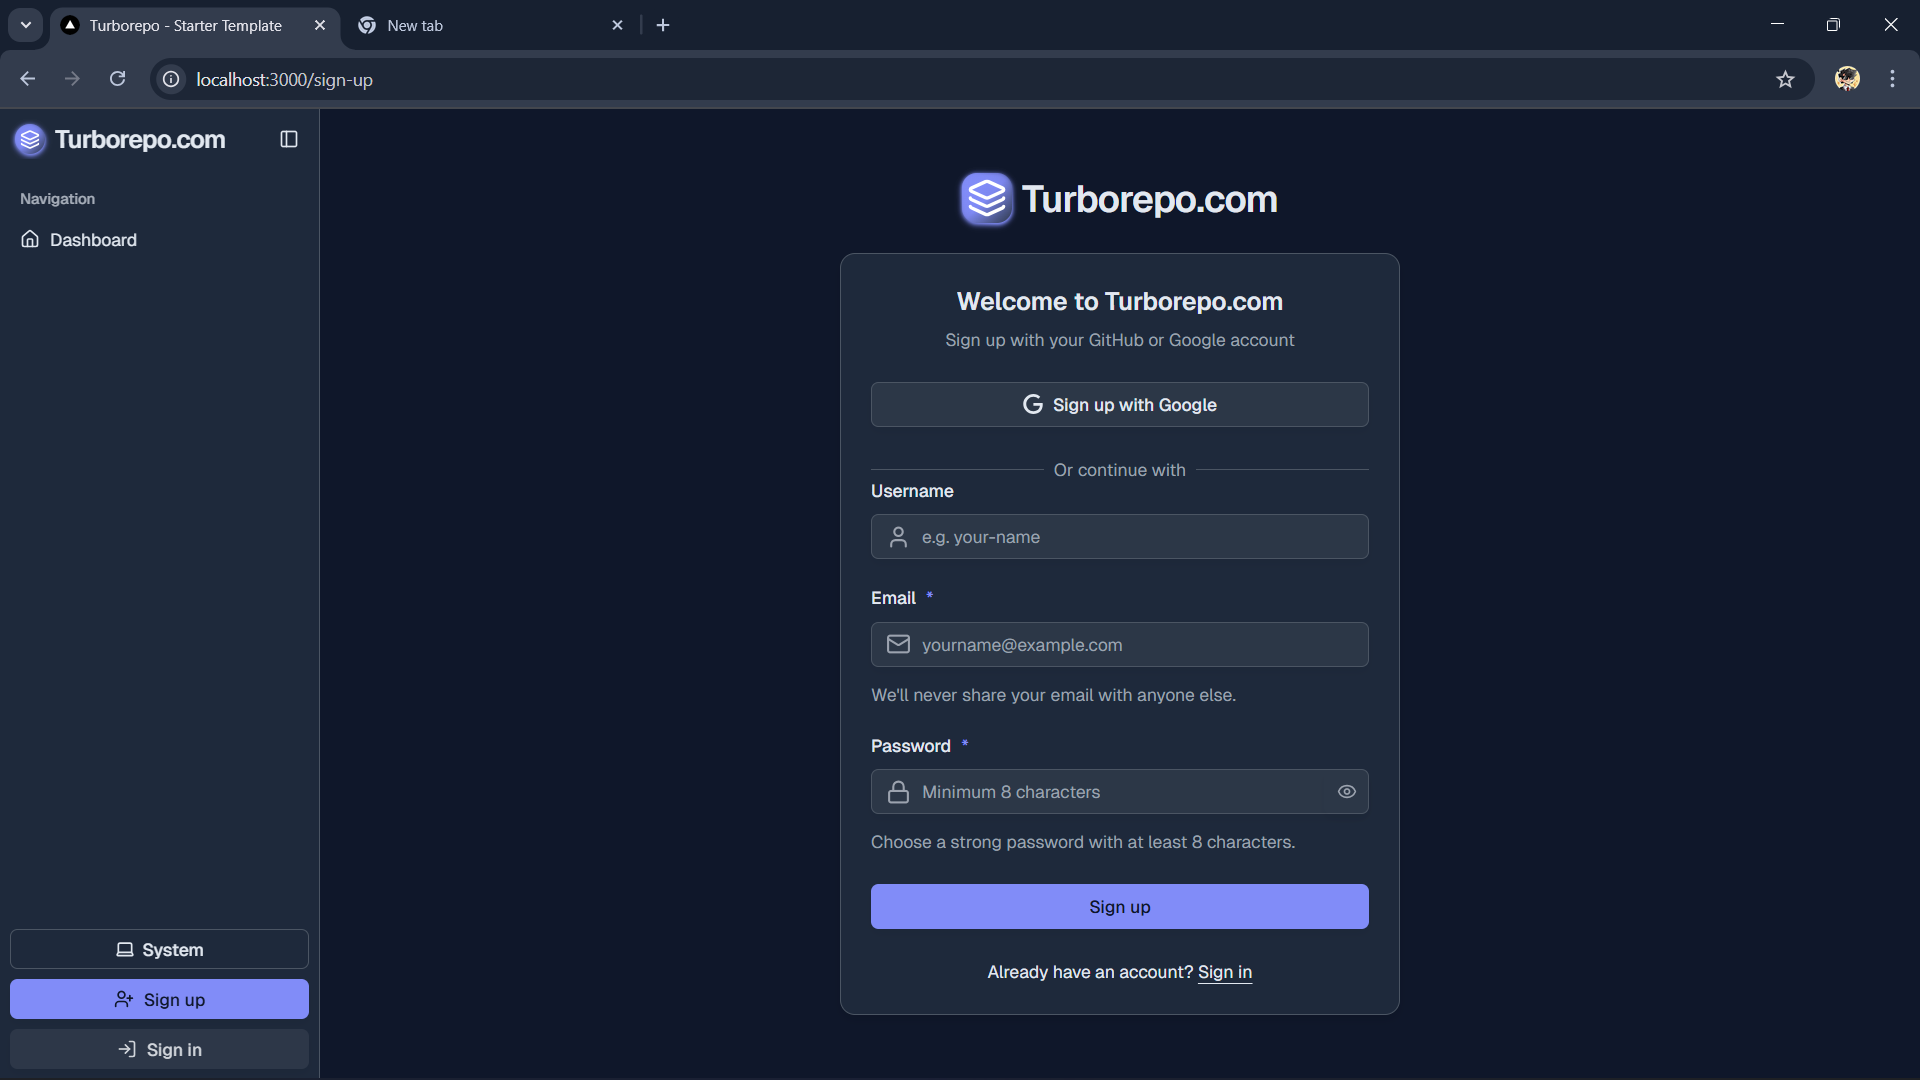
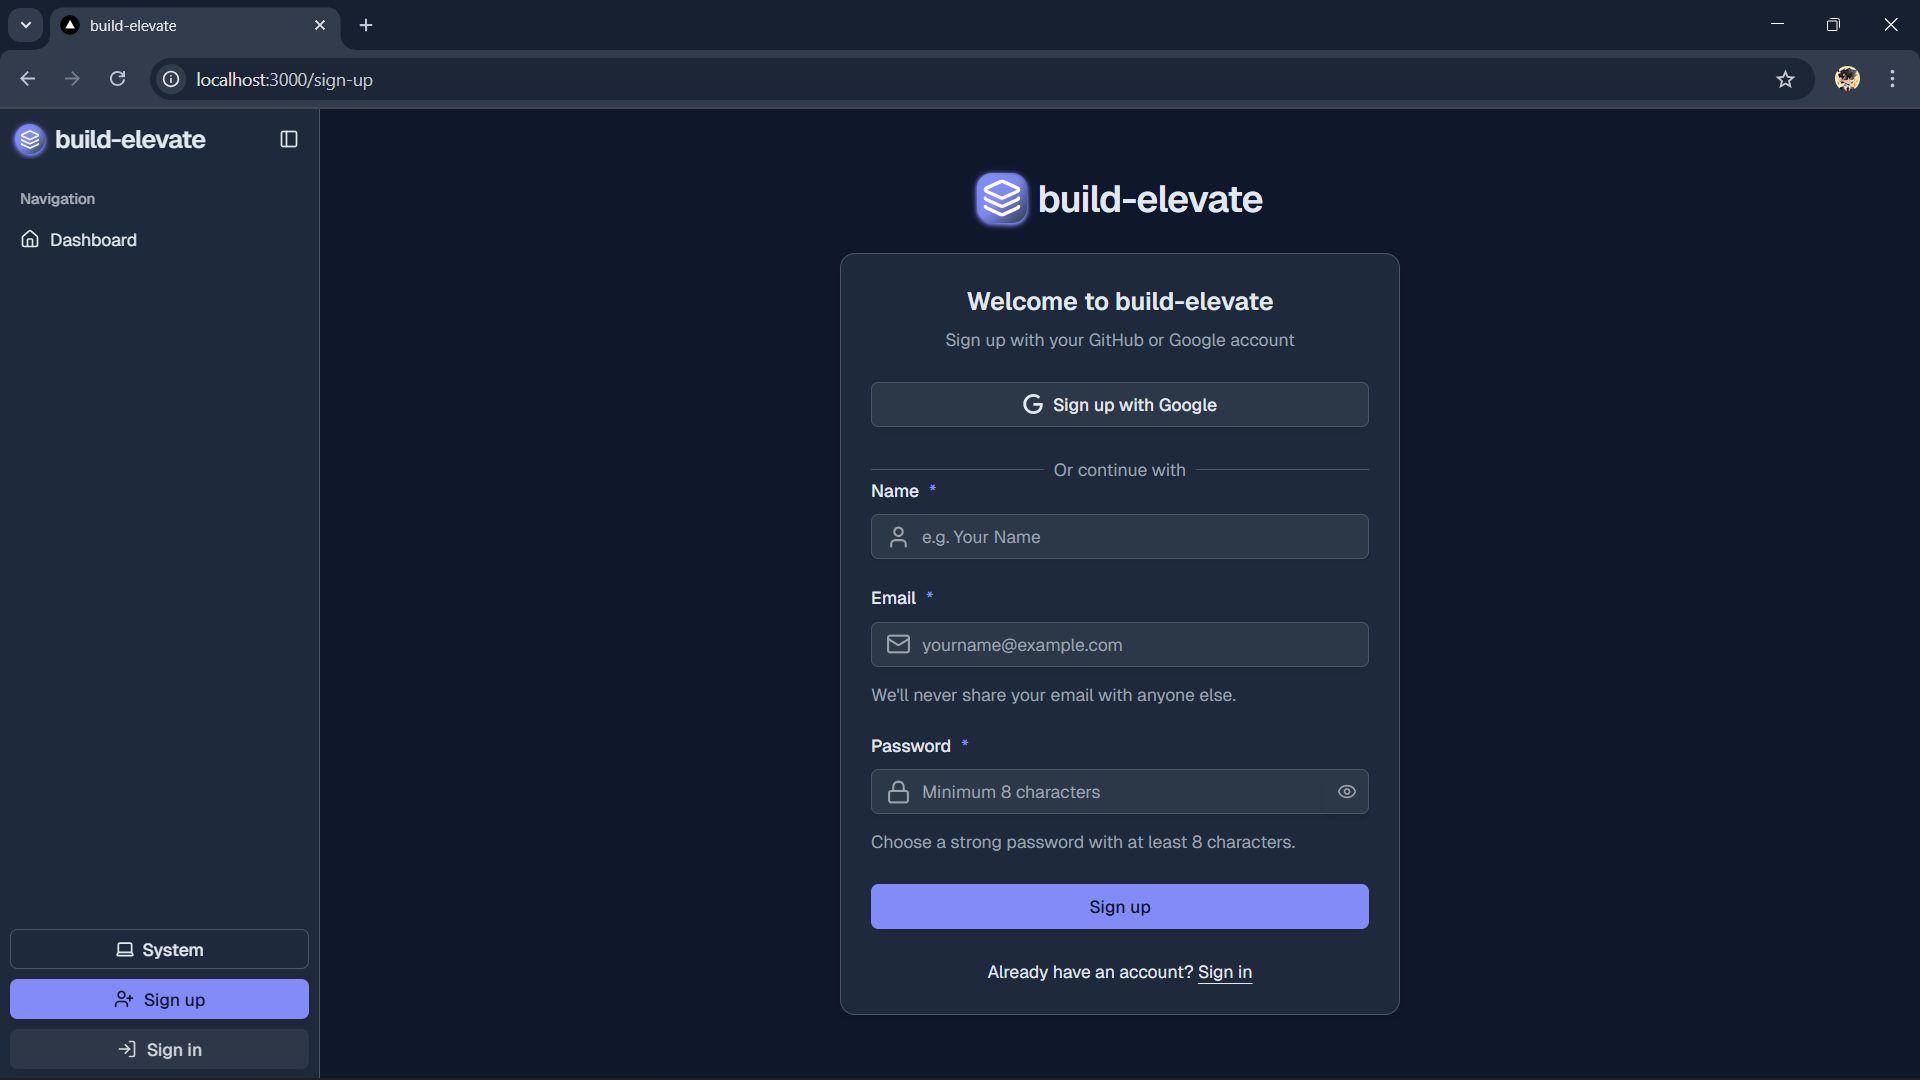
chore: rename to build-elevate

diff --git a/apps/web/config/site.ts b/apps/web/config/site.ts
@@ -2,7 +2,7 @@ import { Home } from 'lucide-react';
 import { Metadata } from 'next';
 
 export const siteConfig: Metadata = {
-  title: 'Turborepo - Starter Template',
+  title: 'build-elevate',
   description: 'A starter template for building applications with Turborepo.',
   icons: {
     icon: [{ url: '/favicon.ico' }],
@@ -20,18 +20,21 @@ export const siteConfig: Metadata = {
     'prisma',
     'postgresql',
     'shadcn/ui',
+    'better-auth',
+    'resend',
+    'react-email',
   ],
   openGraph: {
-    title: 'Turborepo - Starter Template',
+    title: 'build-elevate',
     description: 'A starter template for building applications with Turborepo.',
     url: process.env.NEXT_PUBLIC_BASE_URL ?? 'https://turborepo.org',
-    siteName: 'Turborepo - Starter Template',
+    siteName: 'build-elevate',
     images: [
       {
         url: 'https://turborepo.com/_next/image?url=%2Fimages%2Fdocs%2Fslow-tasks-dark.png&w=1920&q=75',
         width: 1200,
         height: 630,
-        alt: 'Turborepo - Starter Template',
+        alt: 'build-elevate',
       },
     ],
     locale: 'en_US',
@@ -39,7 +42,7 @@ export const siteConfig: Metadata = {
   },
   twitter: {
     card: 'summary_large_image',
-    title: 'Turborepo - Starter Template',
+    title: 'build-elevate',
     description: 'A starter template for building applications with Turborepo.',
     images: [
       'https://turborepo.com/_next/image?url=%2Fimages%2Fdocs%2Fslow-tasks-dark.png&w=1920&q=75',
@@ -48,7 +51,7 @@ export const siteConfig: Metadata = {
 };
 
 export const config = {
-  name: 'Turborepo.com',
+  name: 'build-elevate',
   description: siteConfig.description,
   baseUrl: process.env.NEXT_PUBLIC_BASE_URL ?? 'https://turborepo.org',
   domain: process.env.NEXT_PUBLIC_DOMAIN ?? 'turborepo.org',

diff --git a/apps/web/app/page.tsx b/apps/web/app/page.tsx
@@ -9,25 +9,23 @@ export default function Page() {
     <main className="m-auto flex items-center justify-center px-4">
       <div className="bg-background/70 flex max-w-2xl flex-col items-center gap-5 rounded-xl p-8 text-center backdrop-blur">
         <Logo variant="default" />
-        <h1 className="text-3xl font-bold tracking-tight sm:text-4xl">
-          Turborepo Starter Template
-        </h1>
+        <h1 className="text-3xl font-bold tracking-tight sm:text-4xl">build-elevate</h1>
         <span className="bg-muted text-muted-foreground rounded px-2 py-1 text-xs font-medium">
           Fullstack • Monorepo • TypeScript • Next.js • shadcn/ui
         </span>
         <p className="text-muted-foreground max-w-md">
           A starter template for building fullstack applications with Next.js and Turborepo.
-          Includes authentication, a responsive UI, and a modern development setup.
+          Includes authentication, email integration, responsive UI, and a modern development setup.
         </p>
         <div className="mt-4 flex flex-col gap-3 sm:flex-row">
           <Button asChild size="sm">
-            <Link href="https://github.com/vijaysingh2219/turborepo-starter" target="_blank">
+            <Link href="https://github.com/vijaysingh2219/build-elevate" target="_blank">
               View on GitHub
             </Link>
           </Button>
           <Button asChild variant="secondary" size="sm">
             <Link
-              href="https://github.com/vijaysingh2219/turborepo-starter?tab=readme-ov-file#readme"
+              href="https://github.com/vijaysingh2219/build-elevate?tab=readme-ov-file#readme"
               target="_blank"
             >
               Read Docs

diff --git a/packages/auth/README.md b/packages/auth/README.md
@@ -1,6 +1,6 @@
 # @workspace/auth
 
-A comprehensive authentication package built on top of [Better Auth](https://www.better-auth.com/) for the Turborepo starter. This package provides a complete authentication solution with support for email/password authentication and Google OAuth, seamlessly integrated with PostgreSQL and Prisma.
+A comprehensive authentication package built on top of [Better Auth](https://www.better-auth.com/) for the build-elevate template. This package provides a complete authentication solution with support for email/password authentication and Google OAuth, seamlessly integrated with PostgreSQL and Prisma.
 
 ---
 

diff --git a/apps/web/README.md b/apps/web/README.md
@@ -1,6 +1,6 @@
 # Next.js Turborepo App
 
-This is a Next.js application managed in a Turborepo monorepo setup. It comes with database and authentication setup using Auth.js.
+This is a Next.js application managed in a Turborepo monorepo setup. It comes with database and authentication setup.
 
 ## Setup
 
@@ -39,10 +39,10 @@ DATABASE_URL=postgresql://user:password@localhost:5432/mydb
 
 #### Auth.js Secret
 
-Set your Auth.js development secret:
+Set your Better Auth development secret:
 
 ```env
-AUTH_SECRET=your-dev-secret
+BETTER_AUTH_SECRET=your-dev-secret
 ```
 
 You can generate a random secret using Node.js:

diff --git a/.github/workflows/README.md b/.github/workflows/README.md
@@ -1,6 +1,6 @@
 # GitHub Workflows
 
-This directory contains GitHub Actions workflows for the turborepo monorepo project. Each workflow serves a specific purpose in the CI/CD pipeline.
+This directory contains GitHub Actions workflows for the build-elevate monorepo project. Each workflow serves a specific purpose in the CI/CD pipeline.
 
 ## Workflows Overview
 

diff --git a/apps/api/README.md b/apps/api/README.md
@@ -1,6 +1,6 @@
 # Express API Server
 
-This is the API server for the Turborepo Monorepo Template. It is built with Express and provides a simple RESTful API.
+This is the API server for the build-elevate Template. It is built with Express and provides a simple RESTful API.
 
 ## Setup
 

diff --git a/README.md b/README.md
@@ -1,4 +1,4 @@
-# Turborepo Monorepo Template
+# build-elevate
 
 This template is for creating a monorepo with
 
